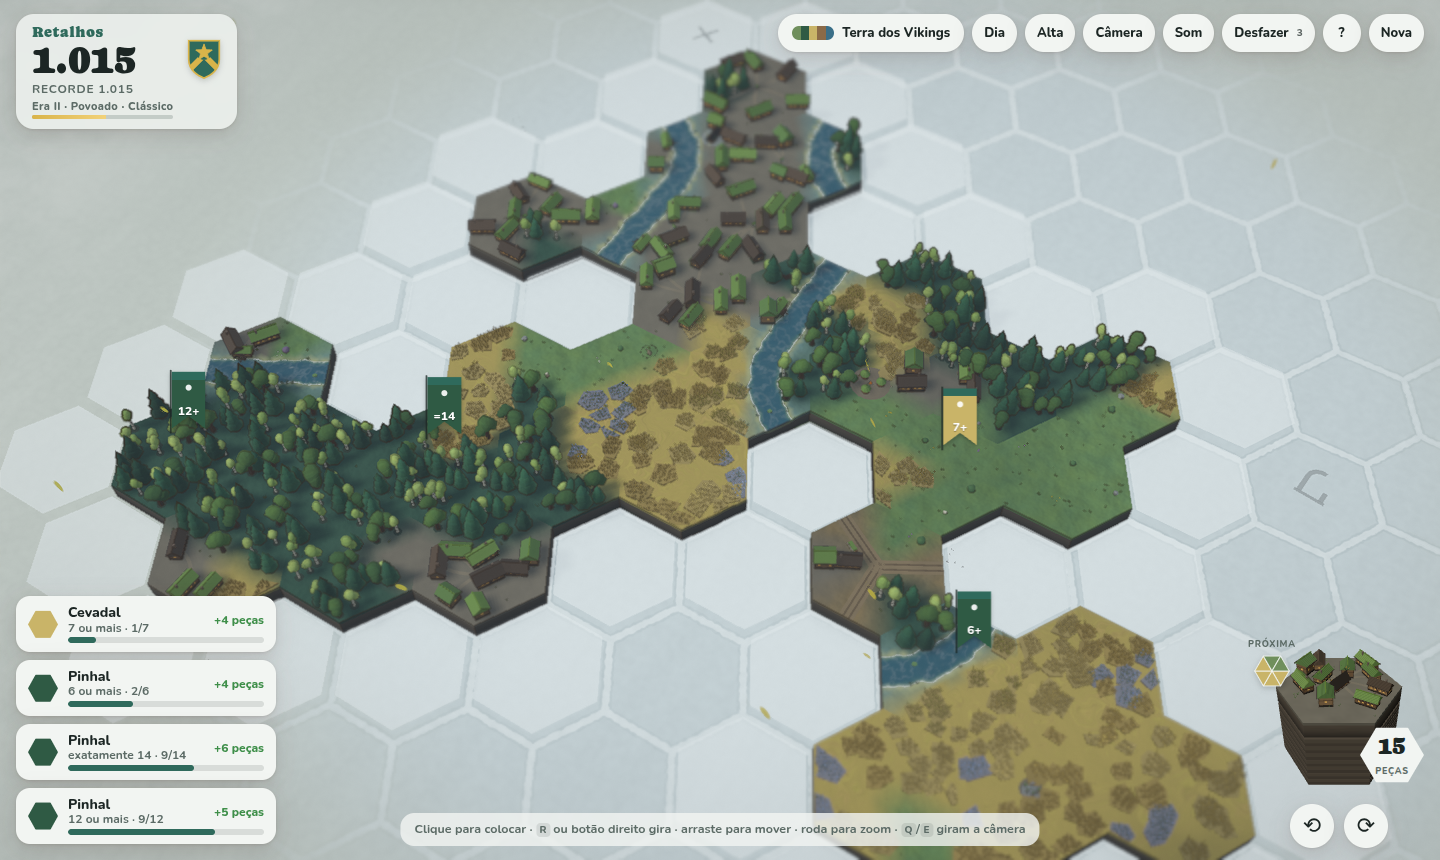
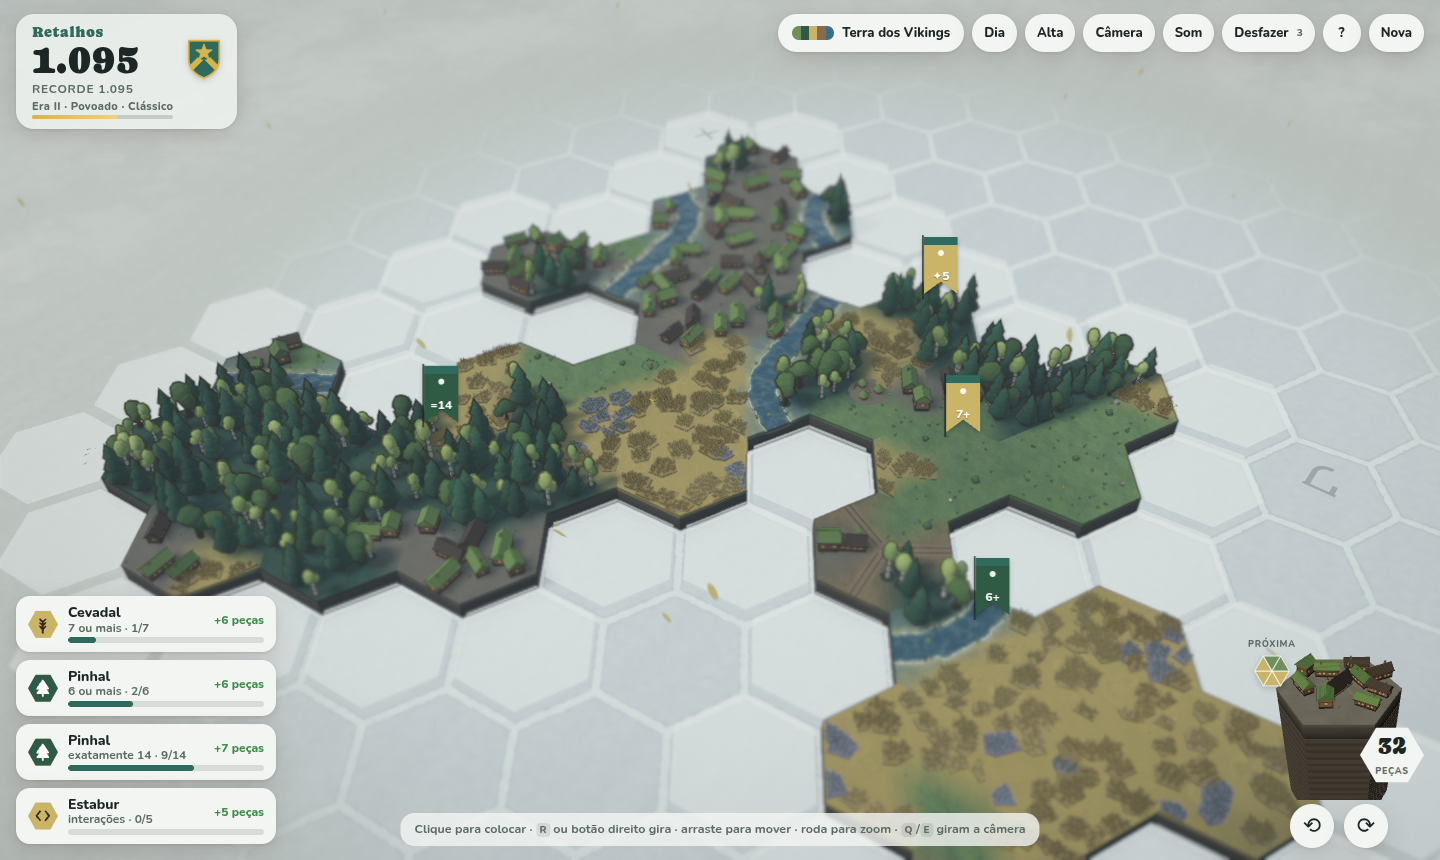
Adiciona gradação de cor por tema
Cada tema escolhe o tom das sombras, o dos realces e a saturação da imagem final
(campo grade), aplicados por cima da gradação por hora: o Song fica com cara de
pintura em seda, os Vikings frios, Marte com sombras ciano. À noite a gradação do
tema pesa menos, porque o luar já dá a cor.

Claude-Session: https://claude.ai/code/session_01Rh1yKK1iseATX43gyQgWnr

diff --git a/src/themes/eras.ts b/src/themes/eras.ts
@@ -71,6 +71,7 @@ export const ERA_THEMES: Theme[] = [
     weather: { kind: 'dust', colors: ['#e8cf9a', '#d9b874'], density: 0.55 },
     sparkle: '#fff2b8',
     ui: { accent: '#94600f', panel: '#fbf5e6', ink: '#3a2a14', soft: '#7d6640' },
+    grade: { shadow: '#4a6a9a', light: '#ffc86a', saturation: 1.04 },
     synergy: { lumber: 'Oficina de palmeira', mill: 'Celeiro real', pasture: 'Curral de gado', apiary: 'Colmeias de barro' },
     folk: { skin: '#a8714a', hat: 'scarf', hatColor: '#f2ead6' },
     music: { scale: [0, 1, 4, 5, 7, 8, 10], timbre: 'reed' },
@@ -148,6 +149,7 @@ export const ERA_THEMES: Theme[] = [
     weather: { kind: 'pollen', colors: ['#fffaf0', '#f0e2b6'], density: 0.5 },
     sparkle: '#f6fbe6',
     ui: { accent: '#b23a2e', panel: '#f6f8f2', ink: '#1e2624', soft: '#66756d' },
+    grade: { shadow: '#4f8a80', light: '#f2e2b8', saturation: 0.9 },
     synergy: { lumber: 'Oficina de bambu', mill: 'Celeiro de arroz', pasture: 'Curral de búfalos', apiary: 'Colmeias' },
     folk: { skin: '#e0b58c', hat: 'straw', hatColor: '#b8975a' },
     music: { scale: [0, 2, 4, 7, 9], timbre: 'flute' },
@@ -221,6 +223,7 @@ export const ERA_THEMES: Theme[] = [
     weather: { kind: 'leaves', colors: ['#9ab04a', '#c9a24a'], density: 0.4 },
     sparkle: '#dff0ff',
     ui: { accent: '#2f6a5c', panel: '#f2f5f2', ink: '#1c2624', soft: '#5c6b66' },
+    grade: { shadow: '#4d6878', light: '#e6d2a8', saturation: 0.88 },
     synergy: { lumber: 'Carpintaria naval', mill: 'Estabur', pasture: 'Curral de ovelhas', apiary: 'Colmeias de hidromel' },
     folk: { skin: '#e8c4a8', hat: 'hood', hatColor: '#6b5a44' },
     music: { scale: [0, 2, 3, 5, 7, 9, 10], timbre: 'reed' },
@@ -297,6 +300,7 @@ export const ERA_THEMES: Theme[] = [
     weather: { kind: 'pollen', colors: ['#fff6dc', '#f2d58a'], density: 0.6 },
     sparkle: '#ffe8b0',
     ui: { accent: '#8a2f3f', panel: '#fbf5ea', ink: '#33261a', soft: '#7f6a50' },
+    grade: { shadow: '#6d6aa0', light: '#ffbf7a', saturation: 1.06 },
     synergy: { lumber: 'Marcenaria', mill: 'Celeiro da fattoria', pasture: 'Estábulo', apiary: 'Apiário do convento' },
     folk: { skin: '#d9a47a', hat: 'cap', hatColor: '#a8322a' },
     music: { scale: [0, 2, 4, 5, 7, 9, 11], timbre: 'pluck' },
@@ -373,6 +377,7 @@ export const ERA_THEMES: Theme[] = [
     weather: { kind: 'leaves', colors: ['#d9502b', '#e8873a'], density: 0.6 },
     sparkle: '#fff4e0',
     ui: { accent: '#34507a', panel: '#f6f3ea', ink: '#22201c', soft: '#6b665a' },
+    grade: { shadow: '#5a6e9c', light: '#f6dcc0', saturation: 0.94 },
     synergy: { lumber: 'Oficina daiku', mill: 'Armazém kura', pasture: 'Cavalariça', apiary: 'Colmeias' },
     folk: { skin: '#e6c09a', hat: 'straw', hatColor: '#c2a463' },
     music: { scale: [0, 1, 5, 7, 8], timbre: 'flute' },
@@ -450,6 +455,7 @@ export const ERA_THEMES: Theme[] = [
     weather: { kind: 'pollen', colors: ['#fffaf0', '#f5d9a0'], density: 0.5 },
     sparkle: '#fff2c0',
     ui: { accent: '#2f6ea8', panel: '#fbf8f0', ink: '#22303c', soft: '#5f6a70' },
+    grade: { shadow: '#5c7090', light: '#ffd08a', saturation: 1.03 },
     synergy: { lumber: 'Carpintaria', mill: 'Paiol', pasture: 'Pouso de tropa', apiary: 'Colmeias de jataí' },
     folk: { skin: '#b0784e', hat: 'straw', hatColor: '#d8c9a0' },
     music: { scale: [0, 2, 4, 5, 7, 9, 11], timbre: 'pluck' },
@@ -523,6 +529,7 @@ export const ERA_THEMES: Theme[] = [
     weather: { kind: 'dust', colors: ['#d9b88a', '#c49a6a'], density: 0.7 },
     sparkle: '#ffe0a8',
     ui: { accent: '#9a4224', panel: '#fbf3e8', ink: '#33211a', soft: '#7a5a4a' },
+    grade: { shadow: '#6a5a8a', light: '#ffb46a', saturation: 0.95 },
     synergy: { lumber: 'Serraria', mill: 'Moinho-bomba', pasture: 'Curral', apiary: 'Apiário' },
     folk: { skin: '#c99a72', hat: 'straw', hatColor: '#8a6a44' },
     music: { scale: [0, 2, 4, 7, 9], timbre: 'pluck' },
@@ -598,6 +605,7 @@ export const ERA_THEMES: Theme[] = [
     weather: { kind: 'snow', colors: ['#ffffff', '#f0f4fa'], density: 0.35 },
     sparkle: '#fff2c0',
     ui: { accent: '#1a7480', panel: '#f6f5ee', ink: '#252a22', soft: '#69705c' },
+    grade: { shadow: '#4a7090', light: '#ffe0a0', saturation: 1.04 },
     synergy: { lumber: 'Oficina de madeira', mill: 'Qollqa', pasture: 'Curral de lhamas', apiary: 'Horta de altitude' },
     folk: { skin: '#9a6a44', hat: 'hood', hatColor: '#c2384a' },
     music: { scale: [0, 3, 5, 7, 10], timbre: 'flute' },

diff --git a/src/themes/themes.ts b/src/themes/themes.ts
@@ -72,6 +72,7 @@ export const BASE_THEMES: Theme[] = [
     weather: { kind: 'pollen', colors: ['#fffbe8', '#f7e6a8'], density: 0.7 },
     sparkle: '#fff6c4',
     ui: { accent: '#c8553a', panel: '#fff8f3', ink: '#3b2a24', soft: '#8a6e62' },
+    grade: { shadow: '#7f74c4', light: '#ffcf9e', saturation: 1.04 },
     synergy: { lumber: 'Serraria', mill: 'Moinho', pasture: 'Pasto', apiary: 'Colmeias' },
     folk: { skin: '#d9a982', hat: 'cap', hatColor: '#7a4a2a' },
     music: { scale: [0, 2, 4, 7, 9], timbre: 'flute' },
@@ -138,6 +139,7 @@ export const BASE_THEMES: Theme[] = [
     weather: { kind: 'pollen', colors: ['#ffffff', '#f3efe0'], density: 0.45 },
     sparkle: '#fff6d0',
     ui: { accent: '#c2410c', panel: '#fbfaf6', ink: '#27231f', soft: '#6f6558' },
+    grade: { shadow: '#6a5a3c', light: '#ffd889', saturation: 0.98 },
     synergy: { lumber: 'Serraria', mill: 'Moinho de vento', pasture: 'Pasto de vacas', apiary: 'Colmeias' },
     folk: { skin: '#e8bfa0', hat: 'cap', hatColor: '#f2efe6' },
     music: { scale: [0, 2, 4, 5, 7, 9, 11], timbre: 'bell' },
@@ -209,6 +211,7 @@ export const BASE_THEMES: Theme[] = [
     weather: { kind: 'pollen', colors: ['#fff3cf', '#f2c94c'], density: 0.7 },
     sparkle: '#fff1b0',
     ui: { accent: '#b5502f', panel: '#fff7ea', ink: '#3a2418', soft: '#8a6248' },
+    grade: { shadow: '#7a5c8c', light: '#ffc070', saturation: 1.05 },
     synergy: { lumber: 'Serraria', mill: 'Silo', pasture: 'Curral', apiary: 'Apiário' },
     folk: { skin: '#a8714a', hat: 'straw', hatColor: '#c9a860' },
     music: { scale: [0, 2, 4, 5, 7, 9, 10], timbre: 'pluck' },
@@ -277,6 +280,7 @@ export const BASE_THEMES: Theme[] = [
     weather: { kind: 'snow', colors: ['#ffffff', '#e8f0fb'], density: 1.0 },
     sparkle: '#ffffff',
     ui: { accent: '#9a3b2e', panel: '#f7fafd', ink: '#1f2a36', soft: '#5f6f80' },
+    grade: { shadow: '#4a78b8', light: '#cfe3ff', saturation: 0.92 },
     synergy: { lumber: 'Lenhadores', mill: 'Moinho', pasture: 'Renas', apiary: 'Colmeias' },
     folk: { skin: '#e8c4a8', hat: 'hood', hatColor: '#a83a2e' },
     music: { scale: [0, 2, 3, 5, 7, 8, 10], timbre: 'glass' },
@@ -345,6 +349,7 @@ export const BASE_THEMES: Theme[] = [
     weather: { kind: 'petals', colors: ['#f8c3d6', '#fbe0ea'], density: 1.0 },
     sparkle: '#fff0f6',
     ui: { accent: '#c2466e', panel: '#fff8fb', ink: '#2e2230', soft: '#7c6378' },
+    grade: { shadow: '#8a6bb0', light: '#ffc8d8', saturation: 1.02 },
     synergy: { lumber: 'Carpintaria', mill: 'Celeiro', pasture: 'Cervos', apiary: 'Colmeias' },
     folk: { skin: '#e6c09a', hat: 'straw', hatColor: '#c9a860' },
     music: { scale: [0, 2, 3, 7, 8], timbre: 'pluck' },
@@ -407,6 +412,7 @@ export const BASE_THEMES: Theme[] = [
     weather: { kind: 'dust', colors: ['#e09a6a', '#c97a4a'], density: 0.9 },
     sparkle: '#b8fff6',
     ui: { accent: '#36b7c9', panel: '#241a36', ink: '#f1eaff', soft: '#b3a3d4' },
+    grade: { shadow: '#3f6f8a', light: '#ff9a5c', saturation: 1.0 },
     synergy: { lumber: 'Extrator de cristais', mill: 'Silo de sementes', pasture: 'Garagem de rovers', apiary: 'Polinizadores' },
     folk: { skin: '#d8b090', hat: 'helmet', hatColor: '#bfe6f2' },
     music: { scale: [0, 2, 4, 6, 8, 10], timbre: 'glass' },

diff --git a/src/render/world.ts b/src/render/world.ts
@@ -293,6 +293,7 @@ interface Sky {
 }
 
 const tmpSnap = new THREE.Vector3();
+const tmpGrade = new THREE.Color();
 const axX = new THREE.Vector3();
 const axY = new THREE.Vector3();
 const axZ = new THREE.Vector3();
@@ -1424,6 +1425,11 @@ export class World {
     const day = 1 - this.sky.night;
     tintOf(this.sky.sun, -0.14 * day, P.shade.value);
     tintOf(this.sky.sun, 0.08 * day, P.light.value);
+    // Gradação do tema por cima da hora: mais leve à noite, que já tem a cor do luar.
+    const g = this.theme.grade, gk = 0.55 + 0.45 * day;
+    P.shade.value.multiply(tintOf(tmpColor.set(g.shadow), 0.16 * gk, tmpGrade));
+    P.light.value.multiply(tintOf(tmpColor.set(g.light), 0.09 * gk, tmpGrade));
+    P.saturation.value = 1.06 * g.saturation;
 
     // Sol acompanha o alvo; área da sombra acompanha o zoom.
     const sd = this.sky.sunDir;

diff --git a/src/themes/types.ts b/src/themes/types.ts
@@ -269,6 +269,8 @@ export interface Theme {
   weather: { kind: WeatherKind; colors: [string, string]; density: number };
   sparkle: string;
   ui: { accent: string; panel: string; ink: string; soft: string };
+  /** Gradação de cor do tema na imagem final: matiz puxado nas sombras e nos realces (só o tom conta, não o brilho) e saturação (1 = neutra). */
+  grade: { shadow: string; light: string; saturation: number };
   /** Nomes das interações entre bordas neste tema. */
   synergy: { lumber: string; mill: string; pasture: string; apiary: string };
   rules?: Partial<Rules>;

diff --git a/AGENTS.md b/AGENTS.md
@@ -219,7 +219,7 @@ Números de 2026-10-02, depois do traço, do pincel, dos aldeões, dos estandart
 ### Novo tema
 
 1. Copie um tema de `src/themes/eras.ts`.
-2. Troque `id`, nomes, cores e kits. Os campos estão comentados em `types.ts`.
+2. Troque `id`, nomes, cores e kits, e a gradação (`grade`: tom das sombras, dos realces e saturação). Os campos estão comentados em `types.ts`.
 3. Confira as formas com `?gallery&theme=<id>`.
 4. Adicione o tema em `scripts/screenshots.mjs` e gere a captura.
 
